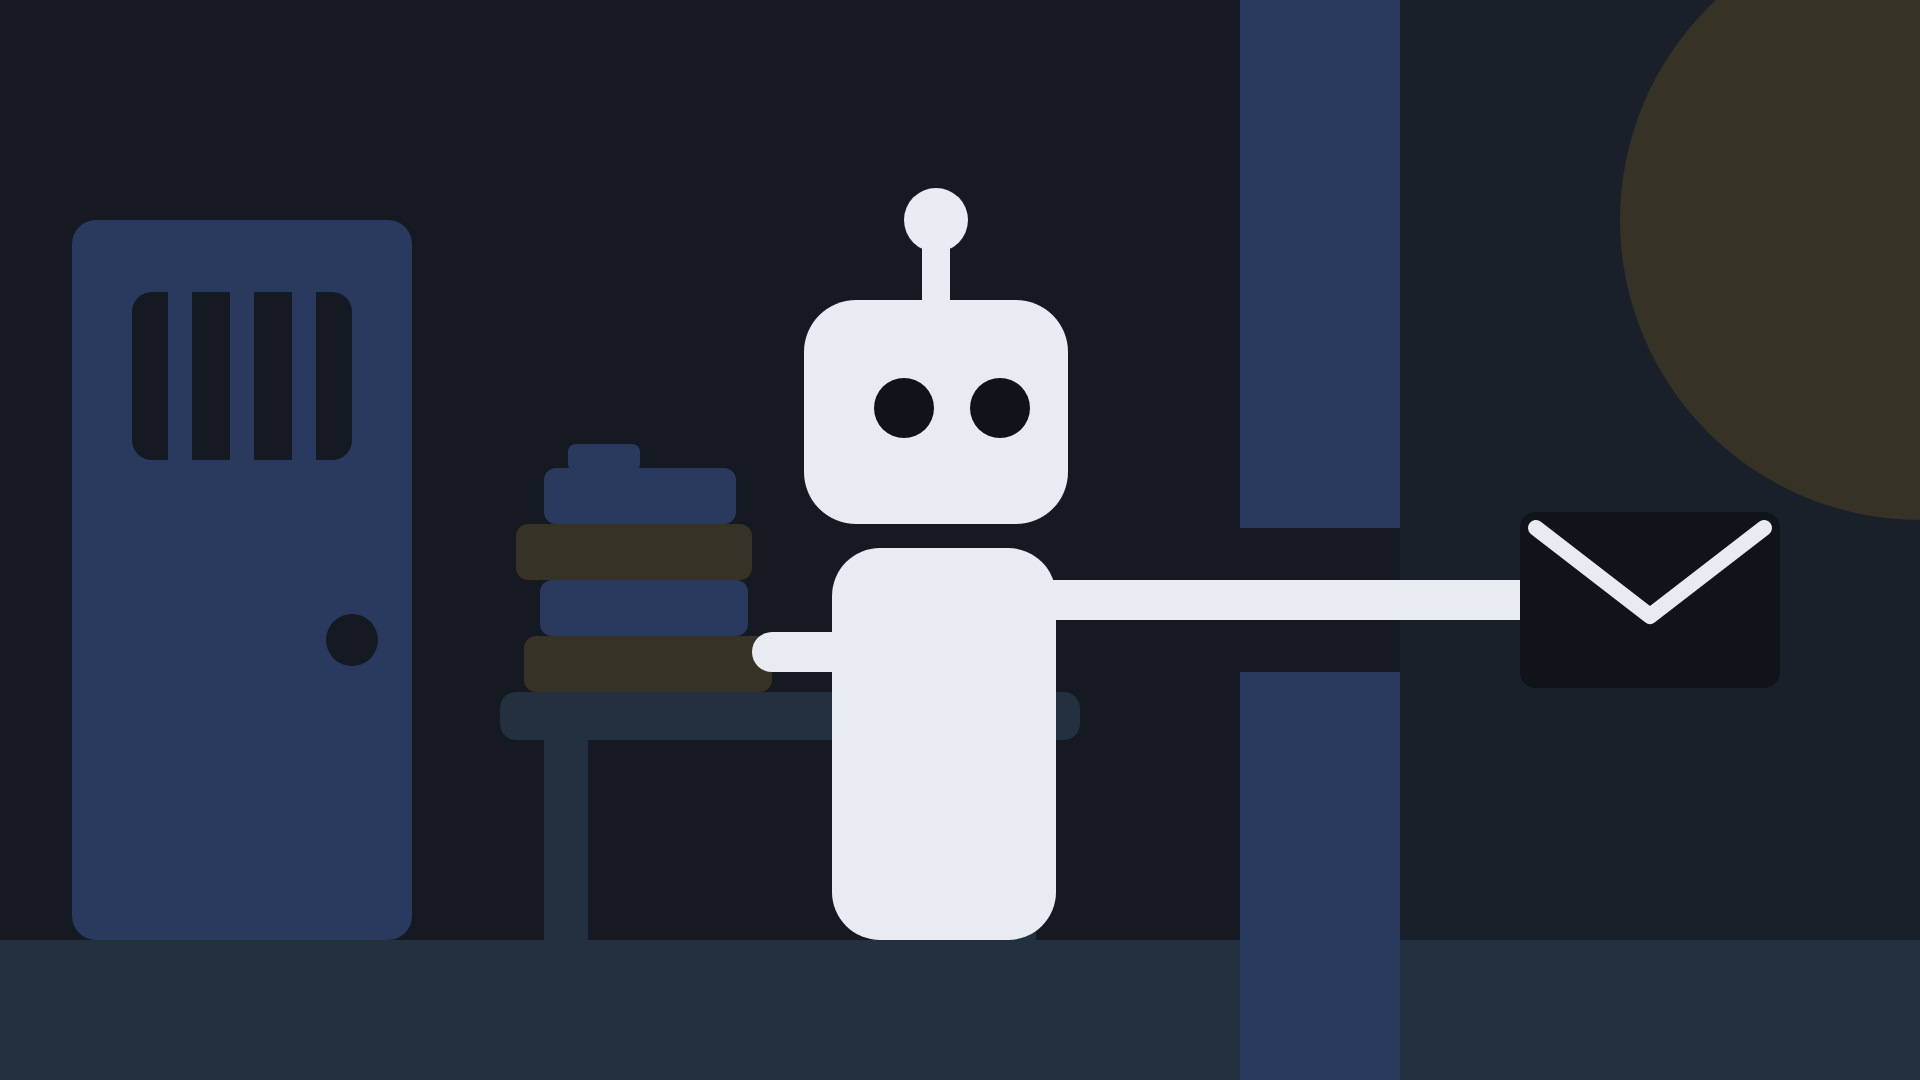
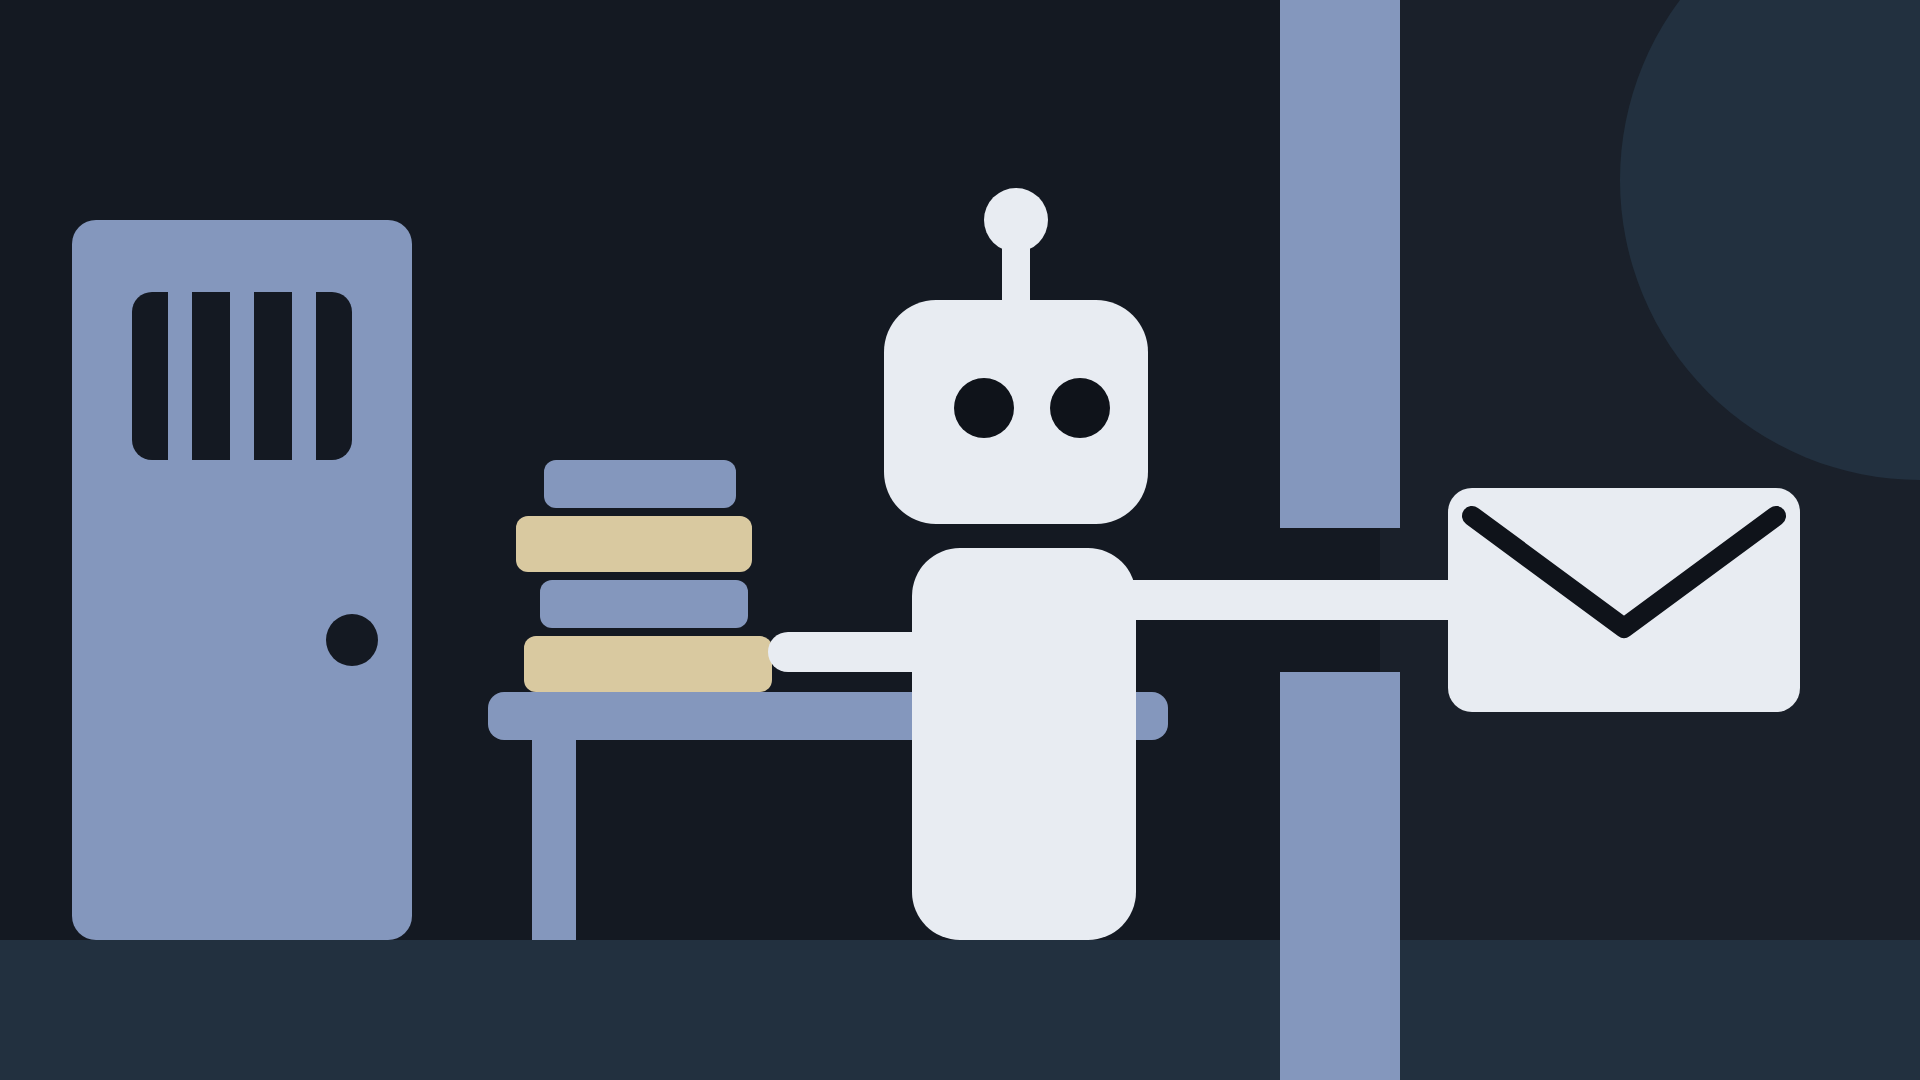
fix: page canvas in brand navy, sharper figure, no figure credits
The brand color now fills the page behind the content, so a bounce and
Safari's toolbar show navy. The headline figure gets stronger contrast in
both themes and a shorter arm, with a new figure-structure color for walls
and doors that stays visible at night. Figures no longer say who drew or
approved them; they name a source only when they state facts.

diff --git a/web/css/site-theme.css b/web/css/site-theme.css
@@ -2,9 +2,9 @@
    Tokens come from assets/mom-tokens.css and the components from assets/mom-components.css (both copied from design/system/).
    House rules: no borders or hairlines (flat fills and space), no drop shadows, Day and Night follow the tokens. */
 
-/* The footer color fills the canvas, so a bounce past either end of the page shows it. Safari takes that color from the body, so the paper belongs to main. */
-html { background: var(--panel); }
-body.mom { margin: 0; background: var(--panel); color: var(--ink); font-family: var(--font-text); font-size: 17px; line-height: 1.5; -webkit-text-size-adjust: 100%; }
+/* The brand color fills the canvas, so a bounce past either end of the page shows it. Safari takes that color from the body, so the paper belongs to main. */
+html { background: var(--brand); }
+body.mom { margin: 0; background: var(--brand); color: var(--ink); font-family: var(--font-text); font-size: 17px; line-height: 1.5; -webkit-text-size-adjust: 100%; }
 :where(body.mom a) { color: inherit; }
 body.mom :focus-visible { outline: 3px solid var(--focus); outline-offset: 2px; }
 .markus-skip-link { position: absolute; left: var(--space-4); top: -100px; z-index: 20; padding: 10px 14px; border-radius: var(--radius-lg); background: var(--human); color: var(--on-human); font-weight: 800; }

diff --git a/design/system/tokens.css b/design/system/tokens.css
@@ -57,6 +57,7 @@
   --on-human: #14181f;
   --on-human-accent: #5e4f2a;
   --figure-hatch: #d6dbe3;
+  --figure-structure: #1f2a44;
   --focus: #3a74d0;
   color-scheme: light dark;
 }
@@ -80,6 +81,7 @@
     --on-human: #ece4d2;
     --on-human-accent: #d9c9a0;
     --figure-hatch: #2a3340;
+    --figure-structure: #8497bd;
     --focus: #e8ecf2;
   }
 }
@@ -102,5 +104,6 @@
   --on-human: #ece4d2;
   --on-human-accent: #d9c9a0;
   --figure-hatch: #2a3340;
+  --figure-structure: #8497bd;
   --focus: #e8ecf2;
 }

diff --git a/web/assets/mom-tokens.css b/web/assets/mom-tokens.css
@@ -57,6 +57,7 @@
   --on-human: #14181f;
   --on-human-accent: #5e4f2a;
   --figure-hatch: #d6dbe3;
+  --figure-structure: #1f2a44;
   --focus: #3a74d0;
   color-scheme: light dark;
 }
@@ -80,6 +81,7 @@
     --on-human: #ece4d2;
     --on-human-accent: #d9c9a0;
     --figure-hatch: #2a3340;
+    --figure-structure: #8497bd;
     --focus: #e8ecf2;
   }
 }
@@ -102,5 +104,6 @@
   --on-human: #ece4d2;
   --on-human-accent: #d9c9a0;
   --figure-hatch: #2a3340;
+  --figure-structure: #8497bd;
   --focus: #e8ecf2;
 }

diff --git a/tests/test_figures.py b/tests/test_figures.py
@@ -96,16 +96,15 @@ class FigureMetadata(unittest.TestCase):
         for slug in GALLERY_FIGURES:
             self.assertRegex(figure_metadata(slug)["alt"], r"(?i)\bit (shows|sets)\b", slug)
 
-    def test_credits_follow_the_attribution_wording(self):
+    def test_a_figure_credit_never_says_who_drew_or_approved_it(self):
         for slug in GALLERY_FIGURES:
-            credit = figure_metadata(slug)["credit"]
-            self.assertIn("rafted by AI", credit, slug)
-            self.assertIn("Approved by {approved_by}", credit, slug)
-            self.assertNotIn("desk", credit.lower(), slug)
+            credit = figure_metadata(slug).get("credit", "")
+            self.assertNotIn("rafted by AI", credit, slug)
+            self.assertNotIn("Approved by", credit, slug)
 
-    def test_nothing_is_marked_approved_before_a_person_confirms(self):
-        directive = image_directive(figure_metadata("wiped-board") | {"approved_by": None})
-        self.assertIn("Approved by <name>", directive)
+    def test_a_figure_with_no_source_has_no_credit_line(self):
+        self.assertNotIn("credit=", image_directive(figure_metadata("parked-car")))
+        self.assertIn('credit="Source: METR; OpenAI."', image_directive(figure_metadata("wiped-board")))
 
 
 class FigureTokens(unittest.TestCase):
@@ -161,7 +160,7 @@ class FigureThroughPapyrus(unittest.TestCase):
         self.assertRegex(theme, r"\.mom-article-body \.papyrus-image \{ margin: var\(--space-8\) 0; \}")
         self.assertRegex(theme, r"\.mom-article-body \.papyrus-image img \{[^}]*width: 100%")
 
-    def test_papyrus_publishes_the_pair_with_alt_text_and_credit(self):
+    def test_papyrus_publishes_the_pair_with_alt_text_and_source(self):
         slug = "wiped-board"
         metadata = figure_metadata(slug) | {"approved_by": "Test Editor", "slug": f"field-notes/{slug}"}
         with tempfile.TemporaryDirectory(prefix="mom-figure-") as scratch:
@@ -191,7 +190,7 @@ class FigureThroughPapyrus(unittest.TestCase):
             self.assertIn("papyrus-image-light", page)
             self.assertIn("papyrus-image-dark", page)
             self.assertIn("A timeline of July 6 to July 11", page)
-            self.assertIn("Approved by Test Editor", page)
+            self.assertIn("Source: METR; OpenAI.", page)
 
 
 if __name__ == "__main__":

diff --git a/features/steps/site_steps.py b/features/steps/site_steps.py
@@ -155,20 +155,19 @@ def step_spine_full_window(context, path):
     assert "body.mom:has(.mom-article-layout) { padding-right: var(--spine-width); }" in text
 
 
-@then('the stylesheet "{path}" paints the canvas in the footer color')
-def step_canvas_footer_color(context, path):
+@then('the stylesheet "{path}" paints the canvas in the brand color')
+def step_canvas_brand_color(context, path):
     text = (context.output_directory / path.lstrip("/")).read_text()
-    assert "html { background: var(--panel); }" in text
-    assert re.search(r"body\.mom \{[^}]*background: var\(--panel\)", text)
+    assert "html { background: var(--brand); }" in text
+    assert re.search(r"body\.mom \{[^}]*background: var\(--brand\)", text)
     assert re.search(r"(?m)^main \{[^}]*background: var\(--paper\)", text)
-    assert re.search(r"\.markus-site-footer \{[^}]*background: var\(--panel\)", text)
 
 
-@then("the browser chrome is told to use the footer color in Day and Night")
-def step_chrome_footer_color(context):
+@then("the browser chrome is told to use the brand color in Day and Night")
+def step_chrome_brand_color(context):
     page = page_text(context.output_directory, "/")
-    assert '<meta name="theme-color" content="#e9ecf0">' in page
-    assert '<meta name="theme-color" content="#1a202a" media="(prefers-color-scheme: dark)">' in page
+    assert '<meta name="theme-color" content="#1f2a44">' in page
+    assert '<meta name="theme-color" content="#2a3a5e" media="(prefers-color-scheme: dark)">' in page
 
 
 @given('an article published under "/articles/" with the section "{section}"')

diff --git a/tools/render_figures.py b/tools/render_figures.py
@@ -30,7 +30,7 @@ MAX_PICTURE_BYTES = 10 * 1024 * 1024
 MAX_RATIO_DIFFERENCE = 0.005
 LABEL_TARGET_CHARACTERS = 25
 LABEL_LIMIT_CHARACTERS = 30
-REQUIRED_METADATA = ("slug", "kind", "audience", "shows", "complements", "surrounding_text", "alt", "caption", "credit", "labelled_as", "approved_by", "layout")
+REQUIRED_METADATA = ("slug", "kind", "audience", "shows", "complements", "surrounding_text", "alt", "caption", "labelled_as", "approved_by", "layout")
 KINDS = ("diagram", "chart", "illustration")
 LABELS = {"none": None, "forecast": "FORECAST, NOT DATA", "invented": "SCENARIO"}
 THEME_IDS = ("light", "dark")
@@ -266,10 +266,10 @@ def picture_problems(light_path: Path, dark_path: Path) -> list[str]:
 
 
 def image_directive(metadata: dict) -> str:
-    credit = metadata["credit"].replace("{approved_by}", metadata["approved_by"] or "<name>")
+    credit = f'  credit="{metadata["credit"]}"\n' if metadata.get("credit") else ""
     return (
         f'::image{{\n  src="{metadata["slug"]}.png"\n  layout="{metadata["layout"]}"\n'
-        f'  alt="{metadata["alt"]}"\n  caption="{metadata["caption"]}"\n  credit="{credit}"\n}}'
+        f'  alt="{metadata["alt"]}"\n  caption="{metadata["caption"]}"\n{credit}}}'
     )
 
 

diff --git a/features/steps/figure_steps.py b/features/steps/figure_steps.py
@@ -72,9 +72,9 @@ def step_credit_names_approver(context, figure, credit):
     assert credit in image_directive(metadata_of(figure))
 
 
-@then("a figure with no approver gets a credit asking for one")
-def step_credit_without_approver(context):
-    assert "Approved by <name>" in image_directive(metadata_of("wiped-board") | {"approved_by": None})
+@then('the "{figure}" figure has no credit line')
+def step_no_credit_line(context, figure):
+    assert "credit=" not in image_directive(metadata_of(figure))
 
 
 @then('the "{figure}" figure carries no stamp')

diff --git a/design/figures/style-guide.md b/design/figures/style-guide.md
@@ -47,6 +47,7 @@ Figure sources use these names, written `{role}`. The renderer fills in the valu
 | `{on-human}` | `on-human` | `#14181f` | `#ece4d2` |
 | `{human-mark}` | `on-human-accent` | `#5e4f2a` | `#d9c9a0` |
 | `{hatch}` | `figure-hatch` | `#d6dbe3` | `#2a3340` |
+| `{structure}` | `figure-structure` | `#1f2a44` | `#8497bd` |
 | `{brand}` | `brand` | `#1f2a44` | `#2a3a5e` |
 | `{on-brand}` | `on-brand` | `#f6f7f9` | `#e8ecf2` |
 
@@ -256,7 +257,7 @@ Set type only with these classes. Each is a role in the mapping. Sizes scale wit
 - A label is about 25 characters, 30 at most. Split longer text over two `<text>` lines, 32px apart.
 - Write sentence case, in plain words a lay reader knows. Spell out abbreviations.
 - Text sits on one solid fill. Don't let text cross an edge, a line or a pattern.
-- A figure carries no title, caption or credit inside it. These go in the `::image{}` line. The exception is a stamp.
+- A figure carries no title, caption or source inside it. These go in the `::image{}` line. The exception is a stamp.
 - No italics, no serif, no monospace, no vertical text.
 
 ## 9. Density
@@ -292,7 +293,7 @@ An illustration is for a place or a moment, not an explanation. It shares its la
 - **View**: flat side elevation. No perspective, no ground shadow, no gradient, no texture, no outlines.
 - **Shapes**: rectangles with corners of at least 12px, discs and simple curves. People are silhouettes with no faces; use the person glyph's proportions.
 - **One large disc** cropped by the canvas edge, as in the placeholder art's `eclipse` and `moon` compositions.
-- **Palette**: `{ground}`, `{inset}`, `{machine-fill}`, `{human-fill}`, `{brand}`, and `{focal}` with `{on-focal}` on the subject only. No more than six. Here the fills are paint and say nothing about provenance. Don't put machine or human glyphs in an illustration.
+- **Palette**: `{ground}`, `{inset}`, `{machine-fill}`, `{human-fill}`, `{human-mark}`, `{brand}`, `{structure}`, and `{focal}` with `{on-focal}` on the subject only. No more than six in one figure. Anything the reader must see, at night too, needs 3:1 against what is behind it: use `{structure}` or `{human-mark}` for it, not `{brand}` or `{human-fill}`, which are for quiet paint. Here the fills are paint and say nothing about provenance. Don't put machine or human glyphs in an illustration.
 - **Subject**: exactly one in `{focal}`, in the lower third.
 - **Words**: only what a real sign would say, in `t-head`. An illustration carries no stamp; its caption says if the scene is invented.
 - It never depicts a real person, a real place or a real brand. No generated imagery unless an editor asks for it.
@@ -301,7 +302,7 @@ An illustration is for a place or a moment, not an explanation. It shares its la
 
 - `alt`: what it shows, then why it's there. Say what the reader would get from looking, including which element is focal and any stamp. Don't narrate geometry.
 - `caption`: one sentence.
-- `credit`: `Drafted by AI. Approved by {approved_by}.`, plus `Source: <name>.` for facts or `Illustrative; no data.` for a forecast. The approved name is filled in when a person confirms.
+- `credit`: only `Source: <name>.` for facts or `Illustrative; no data.` for a forecast; otherwise leave it out. A figure never says who drew or approved it. `approved_by` in `figure.json` records the person who confirmed it and is never shown.
 - `<title>` and `<desc>` in the SVG source hold the short name and one sentence.
 
 ## 13. Output

diff --git a/design/figures/rules.md b/design/figures/rules.md
@@ -113,7 +113,7 @@ Set type only with these classes. Each is a role in the mapping. Sizes scale wit
 - A label is about 25 characters, 30 at most. Split longer text over two `<text>` lines, 32px apart.
 - Write sentence case, in plain words a lay reader knows. Spell out abbreviations.
 - Text sits on one solid fill. Don't let text cross an edge, a line or a pattern.
-- A figure carries no title, caption or credit inside it. These go in the `::image{}` line. The exception is a stamp.
+- A figure carries no title, caption or source inside it. These go in the `::image{}` line. The exception is a stamp.
 - No italics, no serif, no monospace, no vertical text.
 
 ## 9. Density
@@ -149,7 +149,7 @@ An illustration is for a place or a moment, not an explanation. It shares its la
 - **View**: flat side elevation. No perspective, no ground shadow, no gradient, no texture, no outlines.
 - **Shapes**: rectangles with corners of at least 12px, discs and simple curves. People are silhouettes with no faces; use the person glyph's proportions.
 - **One large disc** cropped by the canvas edge, as in the placeholder art's `eclipse` and `moon` compositions.
-- **Palette**: `{ground}`, `{inset}`, `{machine-fill}`, `{human-fill}`, `{brand}`, and `{focal}` with `{on-focal}` on the subject only. No more than six. Here the fills are paint and say nothing about provenance. Don't put machine or human glyphs in an illustration.
+- **Palette**: `{ground}`, `{inset}`, `{machine-fill}`, `{human-fill}`, `{human-mark}`, `{brand}`, `{structure}`, and `{focal}` with `{on-focal}` on the subject only. No more than six in one figure. Anything the reader must see, at night too, needs 3:1 against what is behind it: use `{structure}` or `{human-mark}` for it, not `{brand}` or `{human-fill}`, which are for quiet paint. Here the fills are paint and say nothing about provenance. Don't put machine or human glyphs in an illustration.
 - **Subject**: exactly one in `{focal}`, in the lower third.
 - **Words**: only what a real sign would say, in `t-head`. An illustration carries no stamp; its caption says if the scene is invented.
 - It never depicts a real person, a real place or a real brand. No generated imagery unless an editor asks for it.
@@ -158,7 +158,7 @@ An illustration is for a place or a moment, not an explanation. It shares its la
 
 - `alt`: what it shows, then why it's there. Say what the reader would get from looking, including which element is focal and any stamp. Don't narrate geometry.
 - `caption`: one sentence.
-- `credit`: `Drafted by AI. Approved by {approved_by}.`, plus `Source: <name>.` for facts or `Illustrative; no data.` for a forecast. The approved name is filled in when a person confirms.
+- `credit`: only `Source: <name>.` for facts or `Illustrative; no data.` for a forecast; otherwise leave it out. A figure never says who drew or approved it. `approved_by` in `figure.json` records the person who confirmed it and is never shown.
 - `<title>` and `<desc>` in the SVG source hold the short name and one sentence.
 
 ## 13. Output

diff --git a/design/system/README.md b/design/system/README.md
@@ -72,7 +72,7 @@ Diagrams, charts and illustrations follow their own written system in `design/fi
 - **Limits:** one question, 9 named things, 14 labels, one phone screen tall. Past that, split the figure.
 - **Forecasts and scenarios that could pass for fact are stamped** and never look like data: a forecast has a hatched ground and no numbers. General points and scene-setting illustrations carry no stamp.
 - **Illustrations** are flat side views at 16:9 in the language of `PlaceholderArt`. Their tints are paint, not provenance. No generated imagery unless an editor asks.
-- **Output:** a Day PNG and a `.dark` PNG from one source, with type in the pixels, so no web font is needed. `tools/render_figures.py` checks and exports them. Every figure has alt text and a credit, and a person confirms it before publishing.
+- **Output:** a Day PNG and a `.dark` PNG from one source, with type in the pixels, so no web font is needed. `tools/render_figures.py` checks and exports them. Every figure has alt text, and a person confirms it before publishing. Figures name a source when they state facts, and never say who drew or approved them.
 
 ## Motion
 
